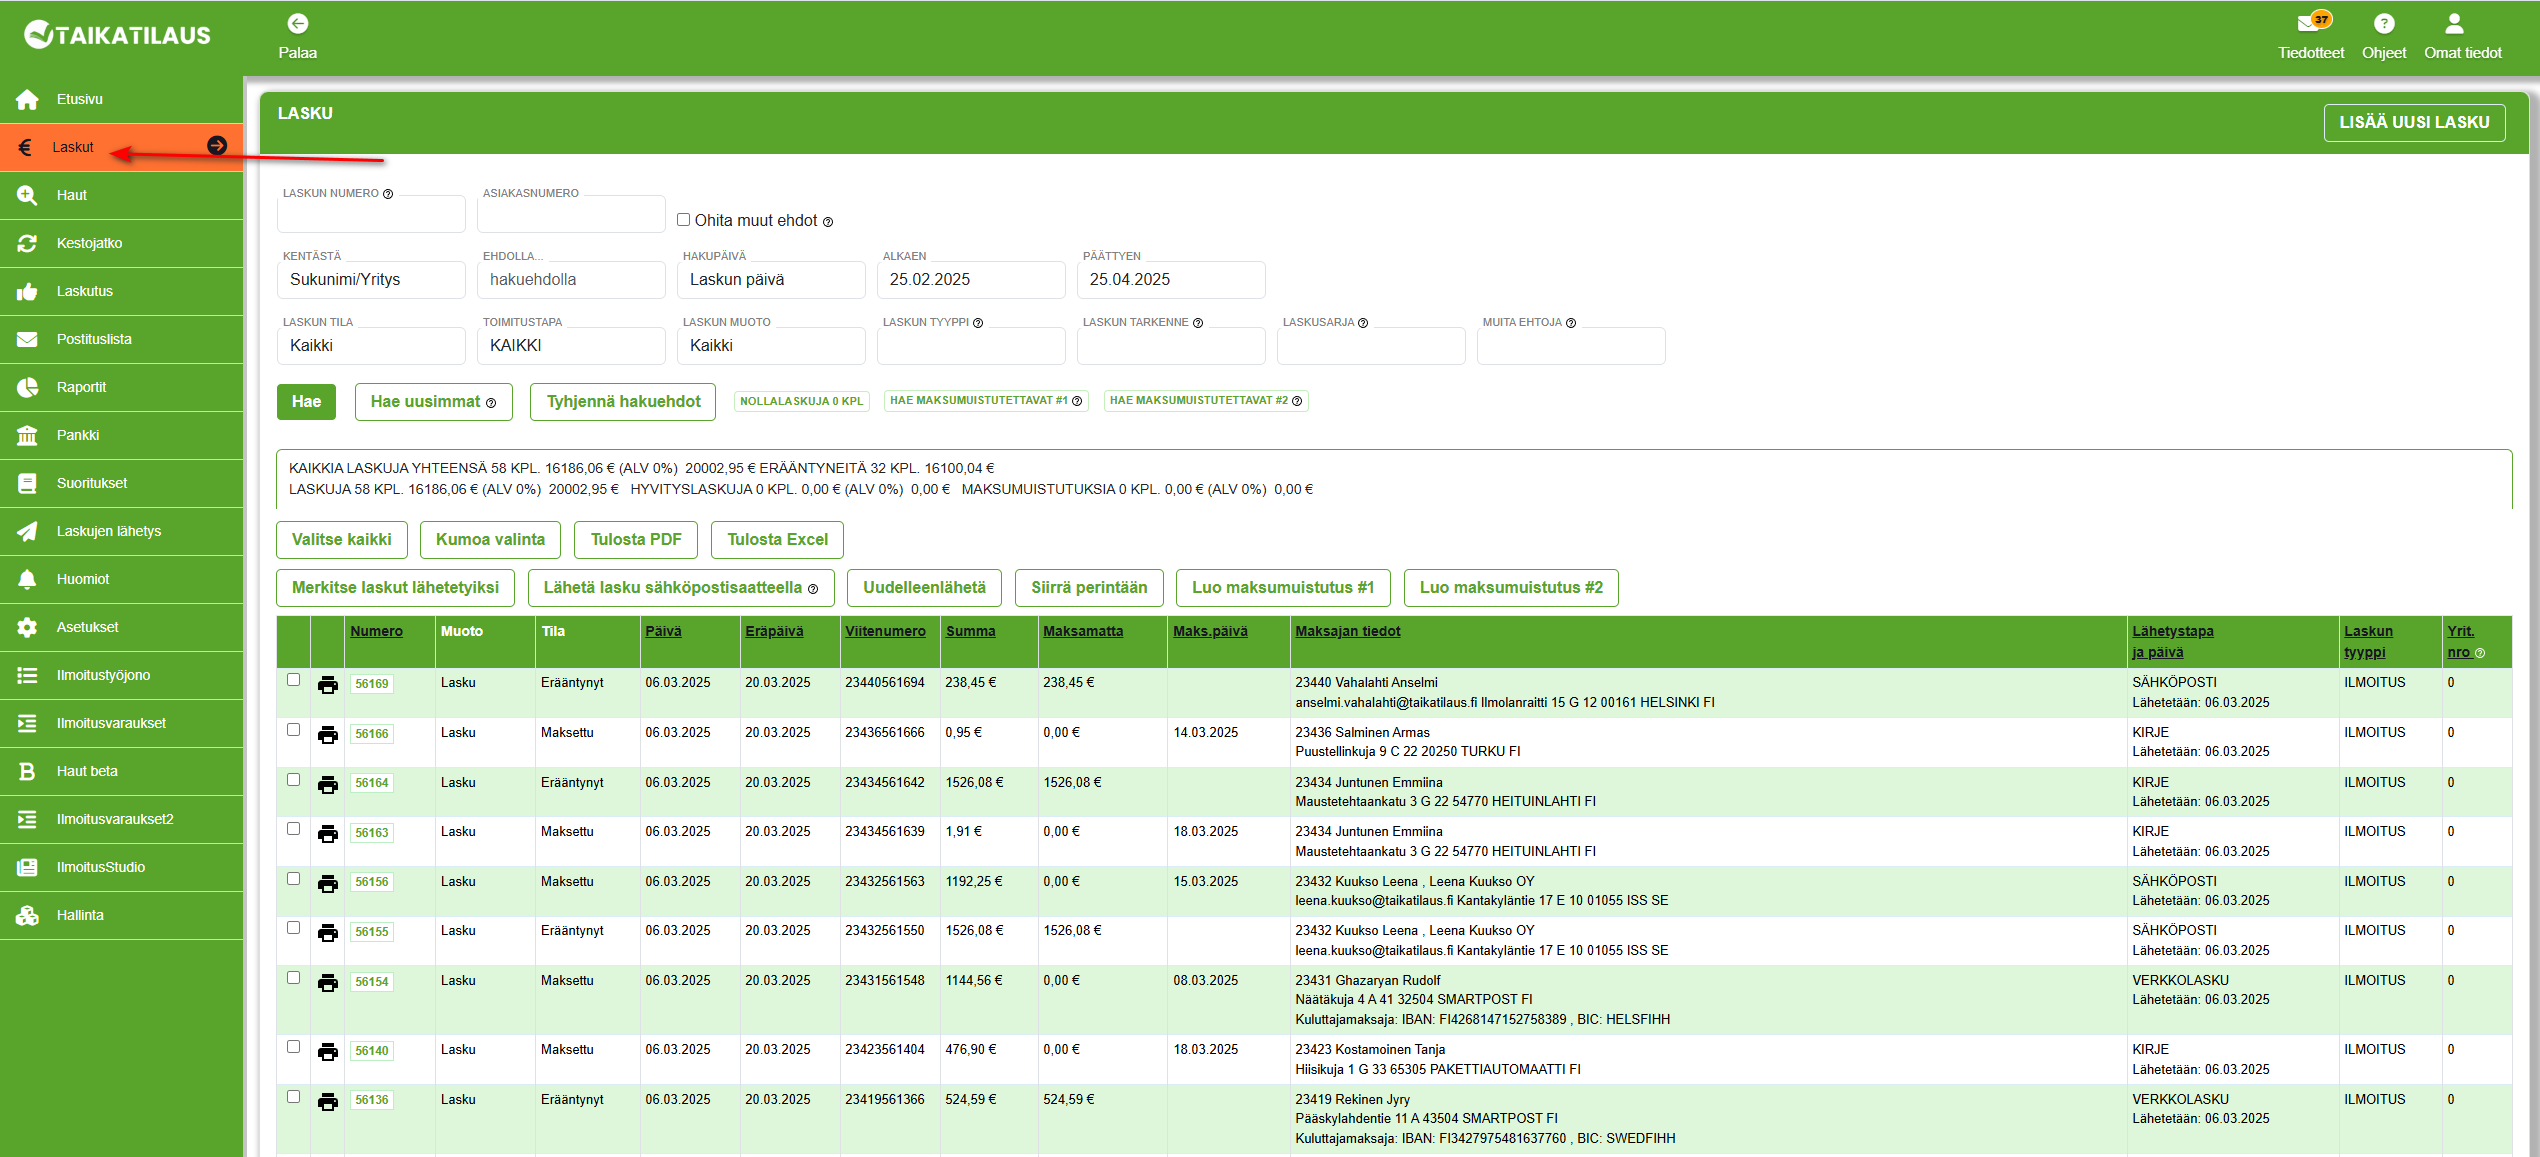
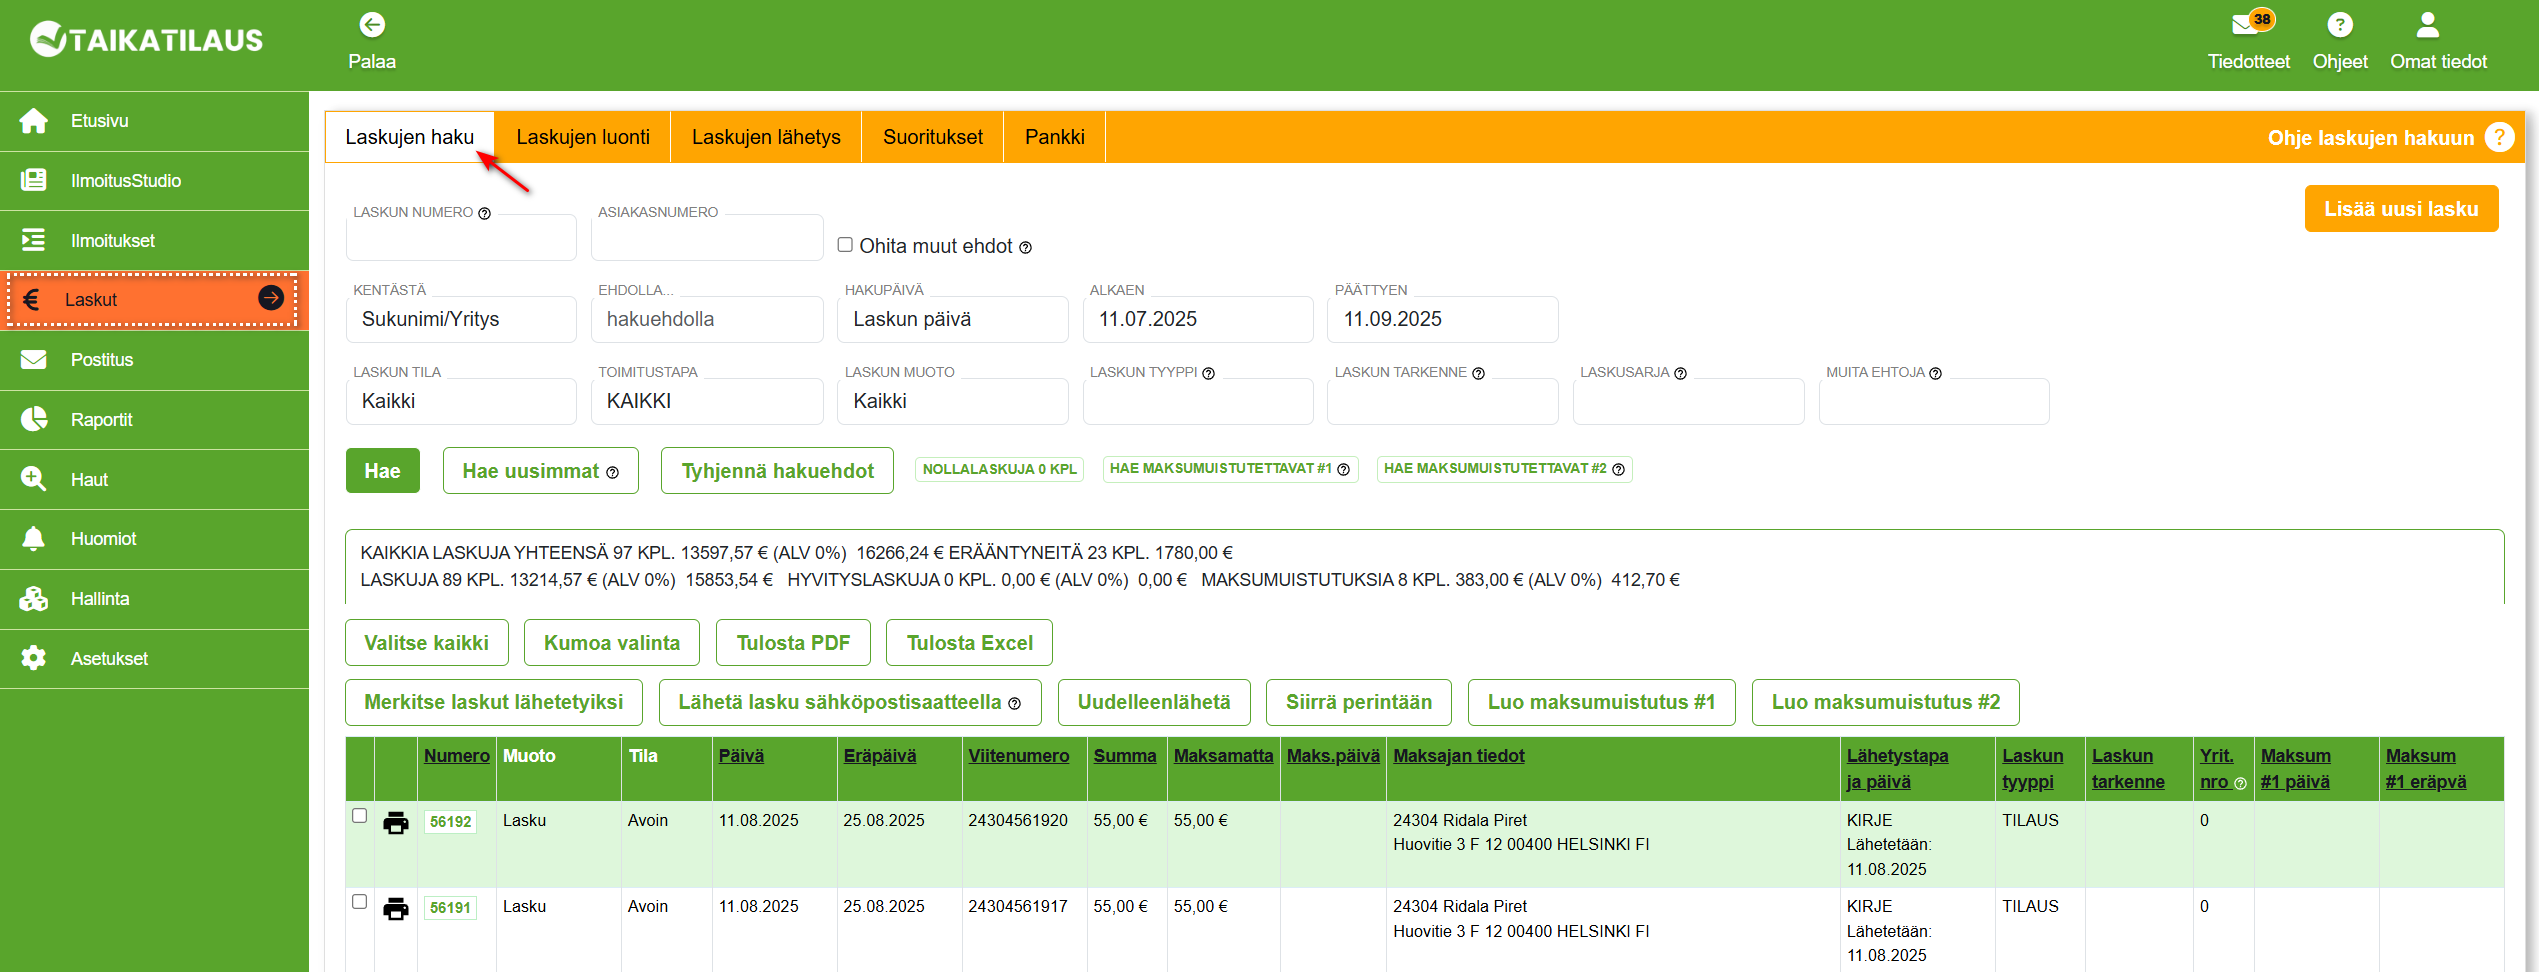
kuvien päivitys laskutusprosessi pikaohjeessa

diff --git a/docs/pikaohjeet/laskutusprosessi.md b/docs/pikaohjeet/laskutusprosessi.md
@@ -4,7 +4,7 @@ sidebar_position: 6
 
 # Laskutusprosessi
 
-### 1. Aloitetaan laskutusprosessi Laskut-välilehdeltä
+### 1. Aloitetaan laskutusprosessi Laskut-valikosta, Laskujen haku-välilehdeltä.
 
 ![1. Etusivunäkymä](/img/pikaohjeet/laskutusprosessi.png)
 
@@ -28,7 +28,7 @@ sidebar_position: 6
 
 ![6. Hyvityslaskun tiedot -näkymä](/img/pikaohjeet/laskutusprosessi6.png)
 
-### 7. Kun maksumuistutukset on luotu, siirrytään Laskutus-välilehdelle.
+### 7. Kun maksumuistutukset on luotu, siirrytään Laskujen luonti-välilehdelle.
 
 ![7. Hyvityslaskun tiedot -näkymä](/img/pikaohjeet/laskutusprosessi7.png)
 
